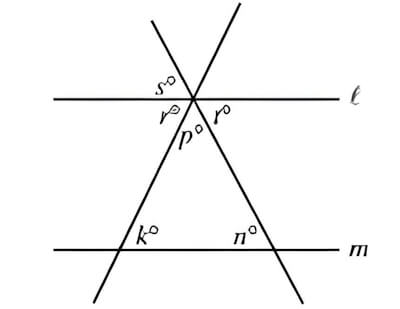
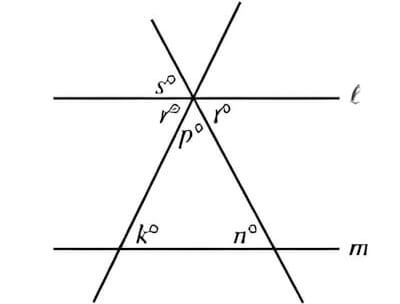
added responsive design and improved figures

diff --git a/templates/console.html b/templates/console.html
@@ -4,6 +4,7 @@
   <meta charset="UTF-8">
   <title>Math Study</title>
   <link rel="stylesheet" href="{{ url_for('static', filename='css/style.css') }}">
+  <meta name="viewport" content="width=device-width, initial-scale=1.0">
 </head>
 <body>
   <div id="timer-overlay">Time remaining: 04:00</div>

diff --git a/static/css/style.css b/static/css/style.css
@@ -1,3 +1,7 @@
+* {
+  font-size: 0.9rem;
+}
+
 body { 
   margin: 0; 
   display: flex; 
@@ -74,4 +78,14 @@ body {
 .task-img {
   width: 400px;
   margin: 10px 0;
+}
+
+@media screen and (max-width: 1024px) {
+  .task-img {
+    width: 300px;
+  }
+
+  * {
+    font-size: 0.75rem;
+  }
 }
